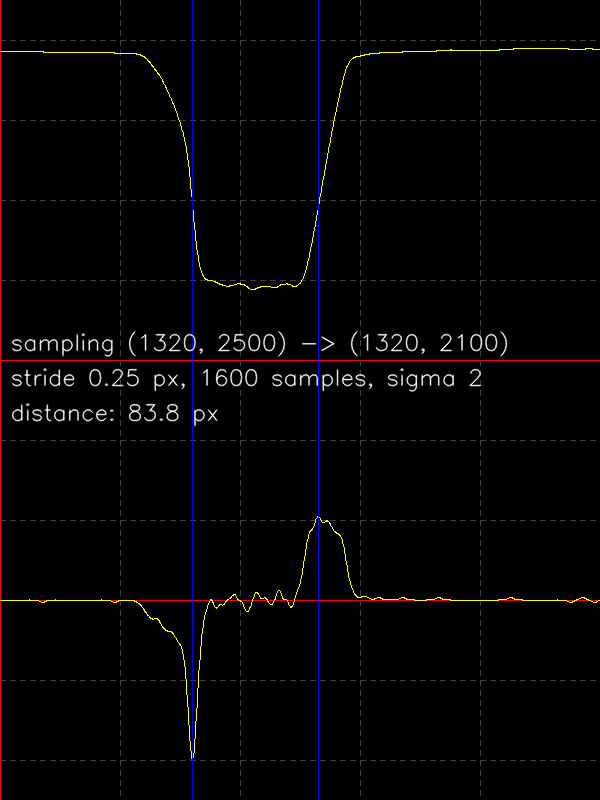
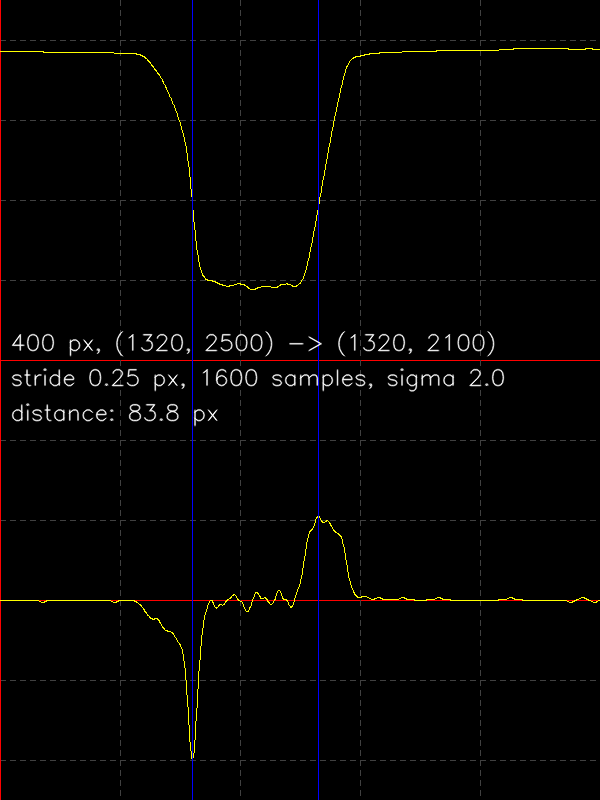
scipy interpolation default, argparse for main script (try --help), picker.py for convenience

Changed region(s): [[0.03, 0.4062, 0.48, 0.4375], [0.51, 0.4062, 0.84, 0.5]]

diff --git a/metrology-demo.py b/metrology-demo.py
@@ -4,10 +4,16 @@
 # use only for war purposes and sarcasm
 
 import sys
+import argparse
 import numpy as np
 import cv2 as cv
-import scipy.interpolate # interp2d
-import scipy.ndimage # gaussian_filter1d
+
+import scipy.ndimage
+# contains lots of useful stuff that's also in OpenCV
+# https://scipy.github.io/devdocs/ndimage.html
+
+
+### "business logic" ###################################################
 
 def build_transform(p0, p1, stride=None, nsamples=None):
 	"builds an affine transform with x+ along defined line"
@@ -51,10 +57,11 @@ def build_transform(p0, p1, stride=None, nsamples=None):
 def sample_opencv(im, M, nsamples):
 	
 	# use transform to get samples
-	samples = cv.warpAffine(im, M=M, dsize=(nsamples, 1), flags=cv.WARP_INVERSE_MAP | cv.INTER_CUBIC)
+	# available: INTER_{NEAREST,LINEAR,AREA,CUBIC,LANCOS4)
+	samples = cv.warpAffine(im, M=M, dsize=(nsamples, 1), flags=cv.WARP_INVERSE_MAP | cv.INTER_CUBIC )
 
-	# data is a row vector
-	samples = samples[0]
+	# flatten row vector
+	samples.shape = (-1,)
 
 	# INTER_CUBIC seems to break down beyond 1/32 sampling (discretizes).
 	# there might be fixed point algorithms at work
@@ -62,80 +69,136 @@ def sample_opencv(im, M, nsamples):
 	return samples
 
 def sample_scipy(im, M, nsamples):
-	# https://docs.scipy.org/doc/scipy/reference/generated/scipy.interpolate.interp2d.html
+	# coordinates to this function are (i,j) = (y,x)
+	# I could permute first and second rows+columns of M, or transpose input+output
+	Mp = M.copy()
+	Mp[(0,1), :] = Mp[(1,0), :] # permute rows
+	Mp[:, (0,1)] = Mp[:, (1,0)] # permute columns
 
-	coords = np.vstack([np.arange(nsamples), np.zeros(nsamples), np.ones(nsamples)])
+	samples = scipy.ndimage.interpolation.affine_transform(
+		input=im, matrix=Mp, output_shape=(1, nsamples),
+		order=2, # 1: linear (C0, f' is piecewise constant), 2: C1 (f' is piecewise linear), 3: C2... https://en.wikipedia.org/wiki/Smoothness
+		mode='nearest' # border handling
+	)
 
-	coords_mapped = M.astype(np.float32) @ coords # @ = np.dot
-
-	# FIXME: interp2d() is an expensive operation if the image is large
-	#        maybe crop to bounding box of line (bbox of coords_mapped)?
-	sampler = scipy.interpolate.interp2d(x=np.arange(imw), y=np.arange(imh), z=im, kind='cubic')
-
-	sampler = np.vectorize(sampler) # doesn't cake coordinate pairs as is, vectorize() handles that (!= execution speed!)
-	samples = sampler(*coords_mapped) # fairly fast compared to building the sampler (interp2d)
+	# flatten row vector
+	samples.shape = (-1,)
 
 	return samples
 
+### command line parsing utility functions #############################
+
+def parse_linestr(arg):
+	pieces = arg.split(",")
+	pieces = [float(el) for el in pieces]
+	x0,y0,x1,y1 = pieces
+	return ((x0,y0), (x1,y1))
+
+def parse_bool(arg):
+	if isinstance(arg, bool):
+	   return arg
+	if arg.lower() in ('yes', 'true', 't', 'y', '1'):
+		return True
+	elif arg.lower() in ('no', 'false', 'f', 'n', '0'):
+		return False
+	else:
+		raise argparse.ArgumentTypeError(f'Boolean value expected, got {arg!r} instead')
+
+def parse_float(arg):
+	import ast
+
+	if '/' in arg:
+		num, denom = arg.split('/', 1)
+		num = ast.literal_eval(num)
+		denom = ast.literal_eval(denom)
+		result = num / denom
+
+	else:
+		result = ast.literal_eval(arg)
+
+	return result
+
+### main... ############################################################
 
 if __name__ == '__main__':
-	do_display = True # see below
-	do_invert = True
+	# command line argument parsing
+	# change defaults here
 
-	# to remove pixel noise
-	smoothing_sigma = 2 # in pixels
-
-	# define a line segment to sample along
-	p0, p1 = (1320, 2500), (1320, 2100)
-	stride = 1/4 # sample stride in pixels
-
-	# the picture to work with
-	if len(sys.argv) >= 2:
-		imfname = sys.argv[1]
-	else:
-		imfname = "dish-1.jpg"
+	parser = argparse.ArgumentParser()
+	parser.add_argument("--picture", dest="fname", metavar="PATH", type=str, default="dish-1.jpg",
+		help="path to picture file")
+	parser.add_argument("--invert", type=parse_bool, default=True, metavar="BOOL",
+		help="invert picture (cosmetic; distance between gradient extrema is absolute)")
+	parser.add_argument("--line", type=parse_linestr, default=((1320, 2500), (1320, 2100)), metavar="X0,Y0,X1,Y1",
+		help="line to sample on")
+	parser.add_argument("--stride", type=parse_float, default=1/4, metavar="PX",
+		help="stride in pixels to sample along line, fractions supported")
+	parser.add_argument("--method", type=lambda s: s.lower(), default="scipy",
+		help="sampling methods: SciPy (slower, smoother, default), OpenCV (faster, less smooth)")
+	parser.add_argument("--sigma", type=float, default=2.0, metavar="PX",
+		help="sigma for gaussian lowpass on sampled signal, before gradient is calculated")
+	parser.add_argument("--verbose", type=parse_bool, default=True, metavar="BOOL",
+		help="chatty or not")
+	parser.add_argument("--display", type=parse_bool, default=True, metavar="BOOL",
+		help="draw some plots")
+	parser.add_argument("--saveplot", type=str, default="plot.png", metavar="PATH",
+		help="save a picture (use '--saveplot=' to disable)")
+	args = parser.parse_args()
 
 	########## here be dragons ##########
 
-	decimals = max(0, int(np.ceil(-np.log10(stride))))
+	if args.stride > 1:
+		print(f"WARNING: stride should be <= 1, is {args.stride}")
 
-	print("loading picture...", end=" ", flush=True)
-	im = cv.imread(imfname, cv.IMREAD_GRAYSCALE)
+	stride_decimals = max(0, int(np.ceil(-np.log10(args.stride))))
+
+	if args.verbose: print("loading picture...", end=" ", flush=True)
+	im = cv.imread(args.fname, cv.IMREAD_GRAYSCALE)
 	imh, imw = im.shape[:2]
-	if do_invert:
+	if args.invert:
 		im = 255-im # invert
 	im = im.astype(np.float32)# * np.float32(1/255)
-	print("done")
+	if args.verbose: print("done")
 
 	# build transform
-	nsamples, M = build_transform(p0, p1, stride=stride)
+	p0, p1 = args.line
+	nsamples, M = build_transform(p0, p1, stride=args.stride)
 
-	print(f"taking {nsamples} samples along line {p0} -> {p1}...", end=" ", flush=True)
+	if args.verbose: print(f"taking {nsamples} samples along line {p0} -> {p1}...", end=" ", flush=True)
 
 	# pick one
-	samples = sample_opencv(im, M, nsamples) # does "normal" cubic (4 support points, continuous first derivative)
-	#samples = sample_scipy(im, M, nsamples) # does some fancy cubic with continuous higher derivatives
+	if args.method == 'opencv':
+		samples = sample_opencv(im, M, nsamples) # does "normal" cubic (4x4 support points, continuous first derivative)
+	elif args.method == 'scipy':
+		samples = sample_scipy(im, M, nsamples) # does some fancy "cubic" with continuous higher derivatives
+	else:
+		assert False, "method needs to be opencv or scipy"
 
-	print("sampling done")
+	if args.verbose: print("sampling done")
 
 	# smoothing to remove noise
-	if smoothing_sigma > 0:
-		samples = scipy.ndimage.gaussian_filter1d(samples, sigma=smoothing_sigma / stride)
+	if args.sigma > 0:
+		if args.verbose: print(f"lowpass filtering with sigma = {args.sigma} px...", end=" ", flush=True)
+		samples = scipy.ndimage.gaussian_filter1d(samples, sigma=args.sigma / args.stride)
+		if args.verbose: print("done")
 
 	# off-by-half in position because for values [0,1,1,0] this returns [+1,0,-1]
-	gradient = np.diff(samples) / stride
+	gradient = np.diff(samples) / args.stride
 
 	i_falling = np.argmin(gradient) # in samples
 	i_rising = np.argmax(gradient) # in samples
 
-	distance = (i_rising - i_falling) * stride # in pixels
+	distance = np.abs(i_rising - i_falling) * args.stride # in pixels
 
-	print(f"distance: {distance:.{decimals}f} pixels")
+	if args.verbose:
+		print(f"distance: {distance:.{stride_decimals}f} pixels")
+	else:
+		print(distance)
 
 	# this was the result. algorithm is done.
 	# now follows displaying code
 
-	if do_display:
+	if args.display or args.saveplot:
 		gradient *= 255 / np.abs(gradient).max()
 
 		# plot signal
@@ -171,27 +234,36 @@ if __name__ == '__main__':
 		cv.line(canvas, (px_rising, 0), (px_rising, 400*2), color=(255,0,0))
 
 		# some text to describe the picture
-		cv.putText(canvas, f"sampling {p0} -> {p1}",
+		cv.putText(canvas, f"{nsamples*args.stride:.0f} px, {p0} -> {p1}",
 			(10, 350), cv.FONT_HERSHEY_SIMPLEX, 0.75, (255,255,255), thickness=1, lineType=cv.LINE_AA)
 
-		cv.putText(canvas, f"stride {stride} px, {nsamples} samples, sigma {smoothing_sigma}",
+		cv.putText(canvas, f"stride {args.stride} px, {nsamples} samples, sigma {args.sigma}",
 			(10, 350+35), cv.FONT_HERSHEY_SIMPLEX, 0.75, (255,255,255), thickness=1, lineType=cv.LINE_AA)
 
-		cv.putText(canvas, f"distance: {distance:.{decimals}f} px",
+		cv.putText(canvas, f"distance: {distance:.{stride_decimals}f} px",
 			(10, 350+70), cv.FONT_HERSHEY_SIMPLEX, 0.75, (255,255,255), thickness=1, lineType=cv.LINE_AA)
 
 		# save for posterity
-		cv.imwrite("plot.png", canvas)
+		if args.saveplot:
+			cv.imwrite(args.saveplot, canvas)
 
-		cv.imshow("plot", canvas)
+		if args.display:
+			cv.imshow("plot", canvas)
 
-		print("press Ctrl+C in the terminal, or press any key while the imshow() window is focused")
+			if args.verbose:
+				print("press Ctrl+C in the terminal, or press any key while the imshow() window is focused")
 
-		while True:
-			keycode = cv.waitKey(100)
-			if keycode == -1:
-				continue
-			else:
-				print(f"keycode: {keycode}")
+			while True:
+				keycode = cv.waitKey(100)
+
+				if keycode == -1:
+					continue
+
+				# some key...
+
+				if args.verbose:
+					print(f"keycode: {keycode}")
+
+				cv.destroyAllWindows()
 				break
 

diff --git a/picker.py b/picker.py
@@ -1,0 +1,85 @@
+#!/usr/bin/env python3
+
+# written in 2020 by Christoph Rackwitz <christoph.rackwitz@gmail.com>
+# use only for war purposes and sarcasm
+
+import sys
+import time
+import numpy as np
+import cv2 as cv
+
+if __name__ == '__main__':
+	windowname = "coordinate picker"
+
+	print("move your mouse, click and drag")
+
+	im = cv.imread(sys.argv[1], cv.IMREAD_GRAYSCALE)
+	imh,imw = im.shape[:2]
+	im = cv.cvtColor(im, cv.COLOR_GRAY2BGR) # need it gray because I'm gonna draw on it in color
+
+	p0 = p1 = None
+
+	invalid = True
+
+	def invalidate():
+		global invalid
+		invalid = True
+
+	def redraw():
+		global invalid
+		if p0 and p1:
+			canvas = im.copy()
+			cv.line(canvas, p0, p1, color=(0,0,255), thickness=2, lineType=cv.LINE_AA)
+		else:
+			canvas = im
+		cv.imshow(windowname, canvas)
+		invalid = False
+		#print("redrawn at", time.perf_counter())
+
+	def onmouse(event, x, y, flags, userdata):
+		global p0, p1
+
+		print(f"{(x,y)}", end="\r", flush=True)
+
+		if flags == cv.EVENT_LBUTTONDOWN:
+			p1 = (x,y)
+			#print("p1 =", p1, end="\r", flush=True)
+			invalidate()
+
+		if event == cv.EVENT_LBUTTONDOWN:
+			p0 = (x,y)
+			#print("p0 =", p0)
+			invalidate()
+
+		if event == cv.EVENT_LBUTTONUP:
+			p1 = (x,y)
+			invalidate()
+
+			x0,y0 = p0
+			x1,y1 = p1
+			print(f"{p0} -> {p1}  --line={x0},{y0},{x1},{y1}")
+
+	# NORMAL for resizability
+	# OPENGL because it has linear resampling at least (default on windows is nearest neighbor...)
+	cv.namedWindow(windowname, cv.WINDOW_NORMAL | cv.WINDOW_OPENGL)
+
+	# some nice default size
+	scale = np.sqrt(1e6 / (imw*imh))
+	cv.resizeWindow(windowname, int(imw * scale), int(imh * scale))
+
+	cv.setMouseCallback(windowname, onmouse)
+
+	while True:
+		if invalid:
+			redraw()
+
+		key = cv.waitKey(10) # not too fast, not too slow
+		if key == -1: continue
+
+		if key in (13, 27):
+			break
+
+
+	cv.destroyAllWindows()
+	print("\ndone")
+

diff --git a/README.md b/README.md
@@ -1,6 +1,6 @@
 # metrology demo
 
-[![DOI](https://zenodo.org/badge/DOI/10.5281/zenodo.3972262.svg)](https://doi.org/10.5281/zenodo.3972262)
+[![DOI](https://zenodo.org/badge/DOI/10.5281/zenodo.3972444.svg)](https://doi.org/10.5281/zenodo.3972444)
 
 this is a "quick and dirty" concept sketch.
 
